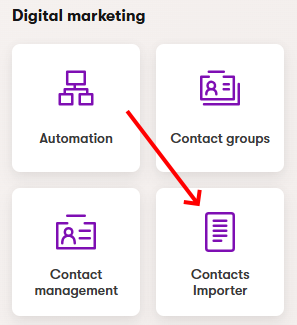
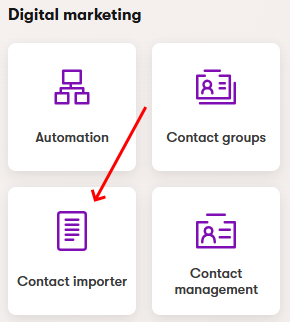
update UI strings, localization strings, screenshots, and docs

diff --git a/src/Kentico.Xperience.Contacts.Importer/Admin/Client/src/templates/ImportLayoutTemplate.tsx b/src/Kentico.Xperience.Contacts.Importer/Admin/Client/src/templates/ImportLayoutTemplate.tsx
@@ -4,9 +4,6 @@ import {
 	Box,
 	Button,
 	ButtonSize,
-	Callout,
-	CalloutPlacementType,
-	CalloutType,
 	Cols,
 	Column,
 	Divider,
@@ -50,11 +47,11 @@ export const ImportLayoutTemplate = (props: ImportTemplateClientProperties): JSX
 
 	const uploadModeOptions = [
 		{
-			label: 'Insert (skip existing)',
+			label: Localization.integrations.contactsimporter.content.labels.insert,
 			value: 'insert',
 		},
 		{
-			label: 'Delete (delete existing)',
+			label: Localization.integrations.contactsimporter.content.labels.delete,
 			value: 'delete',
 		},
 	];
@@ -105,7 +102,7 @@ export const ImportLayoutTemplate = (props: ImportTemplateClientProperties): JSX
 				}
 
 				if (evt.target === null) {
-					setError('An error occurred while reading the file.');
+					setError(Localization.integrations.contactsimporter.messages.errorReading);
 
 					return;
 				}
@@ -120,7 +117,8 @@ export const ImportLayoutTemplate = (props: ImportTemplateClientProperties): JSX
 						const encoder = new TextEncoder();
 						chunkBuffer = encoder.encode(evt.target.result).buffer;
 					} else {
-						setError('Unexpected file read result type.');
+						setError(Localization.integrations.contactsimporter.messages.unexpectedFile);
+
 						return;
 					}
 
@@ -128,21 +126,21 @@ export const ImportLayoutTemplate = (props: ImportTemplateClientProperties): JSX
 					if (!callback(chunkBuffer)) {
 						// callback for handling read chunk
 						canContinue = false;
-						setError('Unexpected server error.');
+						setError(Localization.integrations.contactsimporter.messages.serverError);
 						return;
 					}
 				} else {
 					finishedCallback();
 					setError(
 						evt.target.error?.message ??
-						'An error occurred while reading the file.',
+						Localization.integrations.contactsimporter.messages.errorReading,
 					);
 
 					return;
 				}
 				if (offset >= fileSize) {
 					finishedCallback();
-					setState((prev) => [...prev, 'Completed reading file.']);
+					setState((prev) => [...prev, Localization.integrations.contactsimporter.messages.readComplete]);
 					return;
 				}
 
@@ -157,7 +155,7 @@ export const ImportLayoutTemplate = (props: ImportTemplateClientProperties): JSX
 				}, 3000);
 				setState((prev) => [
 					...prev,
-					'Pausing upload while contacts are imported.',
+					Localization.integrations.contactsimporter.messages.uploadPaused,
 				]);
 				toofast = false;
 			} else {
@@ -171,7 +169,7 @@ export const ImportLayoutTemplate = (props: ImportTemplateClientProperties): JSX
 
 	const onUpload = (): void => {
 		if (file === null) {
-			setError('No file was selected');
+			setError(Localization.integrations.contactsimporter.messages.noFile);
 
 			return;
 		}
@@ -183,7 +181,7 @@ export const ImportLayoutTemplate = (props: ImportTemplateClientProperties): JSX
 		const socket = new WebSocket(`${scheme}://${location.hostname}${port}/contactsimport/ws`);
 		socket.binaryType = 'blob';
 		socket.onerror = (e) => {
-			setError('An error occurred while uploading the file.');
+			setError(Localization.integrations.contactsimporter.messages.errorUploading);
 			console.error(e);
 			canContinue = false;
 			socket.close();
@@ -194,7 +192,7 @@ export const ImportLayoutTemplate = (props: ImportTemplateClientProperties): JSX
 				case 'headerConfirmed': {
 					setState((prev) => [
 						...prev,
-						'CSV header validated. Starting import.',
+						Localization.integrations.contactsimporter.messages.headersValidated,
 					]);
 
 					parseFile(
@@ -226,7 +224,7 @@ export const ImportLayoutTemplate = (props: ImportTemplateClientProperties): JSX
 
 					if (len === currentFile.total % (32 * 1024)) {
 						canContinue = false;
-						setState((prev) => [...prev, 'Upload file completed.']);
+						setState((prev) => [...prev, Localization.integrations.contactsimporter.messages.uploadComplete]);
 						setFile(null);
 					}
 
@@ -238,7 +236,7 @@ export const ImportLayoutTemplate = (props: ImportTemplateClientProperties): JSX
 					break;
 				}
 				case 'finished': {
-					setState((prev) => [...prev, 'Import completed.']);
+					setState((prev) => [...prev, Localization.integrations.contactsimporter.messages.importComplete]);
 					setFile(null);
 					canContinue = false;
 					if (socket.readyState < socket.CLOSING) {
@@ -252,7 +250,7 @@ export const ImportLayoutTemplate = (props: ImportTemplateClientProperties): JSX
 			setError(null);
 			setState((prev) => [
 				...prev,
-				`Sending file of length: ${getFileSize(file)}`,
+				`${Localization.integrations.contactsimporter.messages.sendingFile}: ${getFileSize(file)}`,
 			]);
 			canContinue = true;
 
@@ -281,25 +279,7 @@ export const ImportLayoutTemplate = (props: ImportTemplateClientProperties): JSX
 					colsMd={Cols.Col10}
 					colsLg={Cols.Col8}
 					order={Cols.Col2}
-					orderLg={Cols.Col1}
-				>
-					<Box spacingBottom={Spacing.M}>
-						<Callout
-							type={CalloutType.QuickTip}
-							placement={CalloutPlacementType.OnDesk}
-							headline='Instructions'
-							subheadline='Note'
-						>
-							<p>
-								Use the options below to upload a CSV file containing your
-								Contact records.
-							</p>
-							<p>
-								In the CSV file, define the first row as a header containing the names of the individual columns.
-								Header validation is performed during the file upload. See example file <a href="https://github.com/Kentico/xperience-by-kentico-contacts-importer/blob/main/data/contact_sample.csv">Contact Sample</a>.
-							</p>
-						</Callout>
-					</Box>
+					orderLg={Cols.Col1}>
 					<Box spacingBottom={Spacing.M}>
 						{error !== null && (
 							<NotificationBarAlert onDismiss={() => setError(null)}>
@@ -310,69 +290,20 @@ export const ImportLayoutTemplate = (props: ImportTemplateClientProperties): JSX
 					<Paper>
 						<Box spacing={Spacing.XL}>
 							<Stack spacing={Spacing.XL} fullHeight={true}>
-								<RadioGroup
-									label='Select Upload Mode'
-									name='uploadMode'
-									size={RadioGroupSize.Large}
-									markAsRequired={true}
-									value={importKind}
-									onChange={setImportKind}
-									explanationText={`<p>All Contacts in the import file will be processed.</p>
-									  <ul>
-										<li>
-										  Insert: Any existing Contacts (matched by ContactGUID)
-										  will be skipped for import.
-										</li>
-										<li>
-										  Delete: Any existing Contacts (matched by ContactGUID)
-										  will be deleted from the database.
-										</li>
-									  </ul>`}
-									explanationTextAsHtml={true}
-								>
-									{uploadModeOptions.map((option, key) => (
-										<RadioButton key={option.value} {...option}>
-											{option.label}
-										</RadioButton>
-									))}
-								</RadioGroup>
-								{importKind === 'insert' &&
-									(<div style={{ maxWidth: '400px' }}>
-										<Select
-											label='Assign to Contact Group'
-											clearable={true}
-											placeholder='Select Group'
-											onChange={setContactGroup}
-											value={contactGroup}
-											disabled={props.contactGroups.length === 0}
-											explanationText='Select a Contact Group that all Contacts will be associated with'
-										>
-											{props.contactGroups.map((c) => (
-												<MenuItem
-													primaryLabel={c.displayName}
-													key={c.guid}
-													value={c.guid}
-												/>
-											))}
-										</Select>
-									</div>)
-								}
-
 								<Box spacingY={Spacing.M}>
 									<style>{`.dropzone___rGl2g { padding: 10px; }`}</style>
 									<UploadTile
 										acceptFiles='.csv'
-										firstLineLabel='Drag&Drop .csv here'
-										secondLineLabel='or'
-										buttonLabel='Browse'
+										firstLineLabel={Localization.integrations.contactsimporter.content.labels.uploadFileLine1}
+										secondLineLabel={Localization.integrations.contactsimporter.content.labels.uploadFileLine2}
+										buttonLabel={Localization.integrations.contactsimporter.content.labels.uploadButton}
 										size={UploadTileSize.Compact}
 										onUpload={([f]) => {
 											if (f instanceof File) {
 												setFile(f);
 												setCurrentFile({ current: 0, total: f.size });
 											}
-										}}
-									/>
+										}} />
 
 									{file !== null && (
 										<p style={{ color: 'var(--color-text-default-on-light)' }}>
@@ -381,29 +312,58 @@ export const ImportLayoutTemplate = (props: ImportTemplateClientProperties): JSX
 									)}
 								</Box>
 
+								<RadioGroup
+									label={Localization.integrations.contactsimporter.content.labels.importMode}
+									name='uploadMode'
+									size={RadioGroupSize.Large}
+									value={importKind}
+									onChange={setImportKind}>
+									{uploadModeOptions.map((option, key) => (
+										<RadioButton key={option.value} {...option}>
+											{option.label}
+										</RadioButton>
+									))}
+								</RadioGroup>
+								{importKind === 'insert' &&
+									(<div style={{ maxWidth: '400px' }}>
+									<Select
+										label={Localization.integrations.contactsimporter.content.labels.contactGroup}
+										clearable={true}
+										placeholder='(none)'
+										onChange={setContactGroup}
+										value={contactGroup}
+										disabled={props.contactGroups.length === 0}
+										explanationText={Localization.integrations.contactsimporter.content.explanations.contactGroup}>
+											{props.contactGroups.map((c) => (
+												<MenuItem
+													primaryLabel={c.displayName}
+													key={c.guid}
+													value={c.guid}/>
+											))}
+										</Select>
+									</div>)
+								}
+
 								<div style={{ maxWidth: '400px' }}>
 									<Input
-										label='CSV record delimiter'
+										label={Localization.integrations.contactsimporter.content.labels.delimiter}
 										type='text'
 										onChange={(v) => {
 											setDelimiter(v.target.value);
 										}}
 										value={delimiter}
-										explanationText='The delimiter for each CSV row data item.'
-									/>
+										explanationText={Localization.integrations.contactsimporter.content.explanations.delimiter}/>
 								</div>
 								<div style={{ maxWidth: '400px' }}>
 									<Input
-										label='Batch size'
+										label={Localization.integrations.contactsimporter.content.labels.batchSize}
 										type='number'
 										onChange={(v) => {
 											setBatchSize(Number.parseInt(v.target.value, 10));
 										}}
 										value={batchSize}
 										min={1}
-										explanationText='The number of records that will be uploaded and processed at a time.'
-									/>
-
+										explanationText={Localization.integrations.contactsimporter.content.explanations.batchSize}/>
 								</div>
 
 								{currentFile.total > 0 && (
@@ -420,7 +380,7 @@ export const ImportLayoutTemplate = (props: ImportTemplateClientProperties): JSX
 								)}
 
 								<Button
-									label='Upload file'
+									label={Localization.integrations.contactsimporter.content.labels.run}
 									size={ButtonSize.S}
 									onClick={onUpload}
 								/>

diff --git a/src/Kentico.Xperience.Contacts.Importer/Admin/ContactsImporterApplication.cs b/src/Kentico.Xperience.Contacts.Importer/Admin/ContactsImporterApplication.cs
@@ -6,23 +6,23 @@ using Kentico.Xperience.Contacts.Importer.Admin;
 
 [assembly: UICategory(
    codeName: "Kentico.Xperience.Contacts.Import.Web.Admin.Category",
-   name: "Contacts Import",
+   name: "Contact importer",
    icon: Icons.PersonalisationVariants,
    order: 100)]
 
 [assembly: UIApplication(
     identifier: ContactsImporterApplication.IDENTIFIER,
     type: typeof(ContactsImporterApplication),
-    slug: "contacts-importer",
-    name: "Contacts Importer",
+    slug: "contact-importer",
+    name: "Contact importer",
     category: BaseApplicationCategories.DIGITAL_MARKETING,
     icon: Icons.RectangleParagraph,
     templateName: TemplateNames.SECTION_LAYOUT)]
 
 [assembly: UIPage(
    parentType: typeof(ContactsImporterApplication),
-   name: "Upload-Delete",
-   slug: "upload",
+   name: "Import",
+   slug: "import",
    uiPageType: typeof(ImportTemplate),
    templateName: ImportTemplate.TEMPLATE_NAME,
    order: 100)]
@@ -30,7 +30,7 @@ using Kentico.Xperience.Contacts.Importer.Admin;
 namespace Kentico.Xperience.Contacts.Importer.Admin;
 
 /// <summary>
-/// The root application page for the Contacts Importer.
+/// The root application page for the contact importer.
 /// </summary>
 [UIPermission(SystemPermissions.VIEW)]
 internal class ContactsImporterApplication : ApplicationPage

diff --git a/docs/Usage-Guide.md b/docs/Usage-Guide.md
@@ -2,22 +2,22 @@
 
 ## Screenshot
 
-![View of the Import Upload dashboard](../images/screenshot.jpg)
+![Import page](../images/screenshot.png)
 
 ## Importing and deleting contacts
 
-1. Open **Digital marketing > Contact Importer** application
+1. Open **Digital marketing > Contact importer** application
 
-    ![ContactImporterApplication](../images/app-tile.png)
+    ![App tile](../images/app-tile.png)
 
-1. In the **Select Upload Mode** field, choose the import mode:
+1. Upload your CSV file. See [Supported CSV columns](#supported-csv-columns) for help with formatting the data
+1. In the **Import mode** field, choose the import mode:
     - Insert: Imports new contacts while skipping existing contacts with matching ContactGUIDs from the CSV file
     - Delete: Deletes existing contacts using the ContactGUIDs from the CSV file
-1. If you would like to assign newly-imported contacts _and_ existing contacts to a contact group, select the group from the **Assign to Contact Group** dropdown. You may leave this option empty if you don't wish to assign the contacts to a group
-1. Upload your CSV file. See [Supported CSV columns](#supported-csv-columns) for help with formatting the data
+1. If you would like to assign newly-imported contacts _and_ existing contacts to a contact group, select the group from the **Assign to contact group** dropdown. You may leave this option empty if you don't wish to assign the contacts to a group
 1. The **Delimiter** field can generally be skipped as the default character `,` is most common. Change this value if your CSV file uses a different character- common examples are `;` or `\\t`
 1. Customize the **Batch size** as needed. For instances with limited resources this value should not exeed 5000. A batch size lower than 100 is not recommended
-1. Click **Upload file** to begin the process. Degraded application performance is expected during import
+1. Click **Run import** to begin the process. Degraded application performance is expected during import
 
 > [!CAUTION]
 > During the import process, do not:
